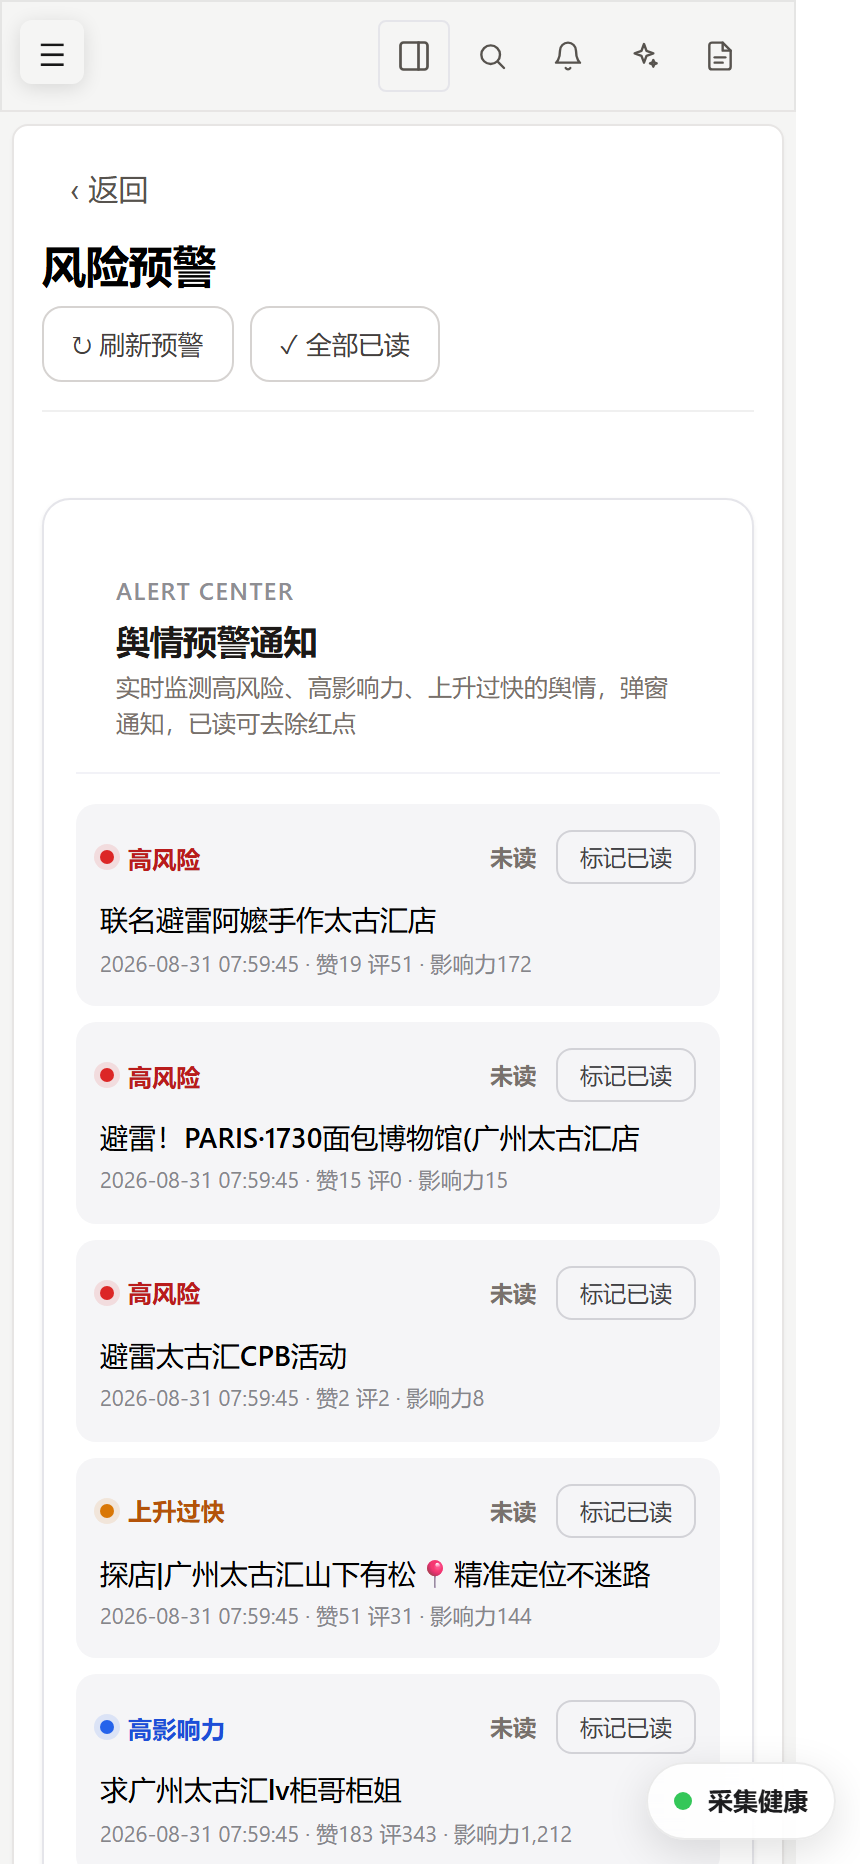
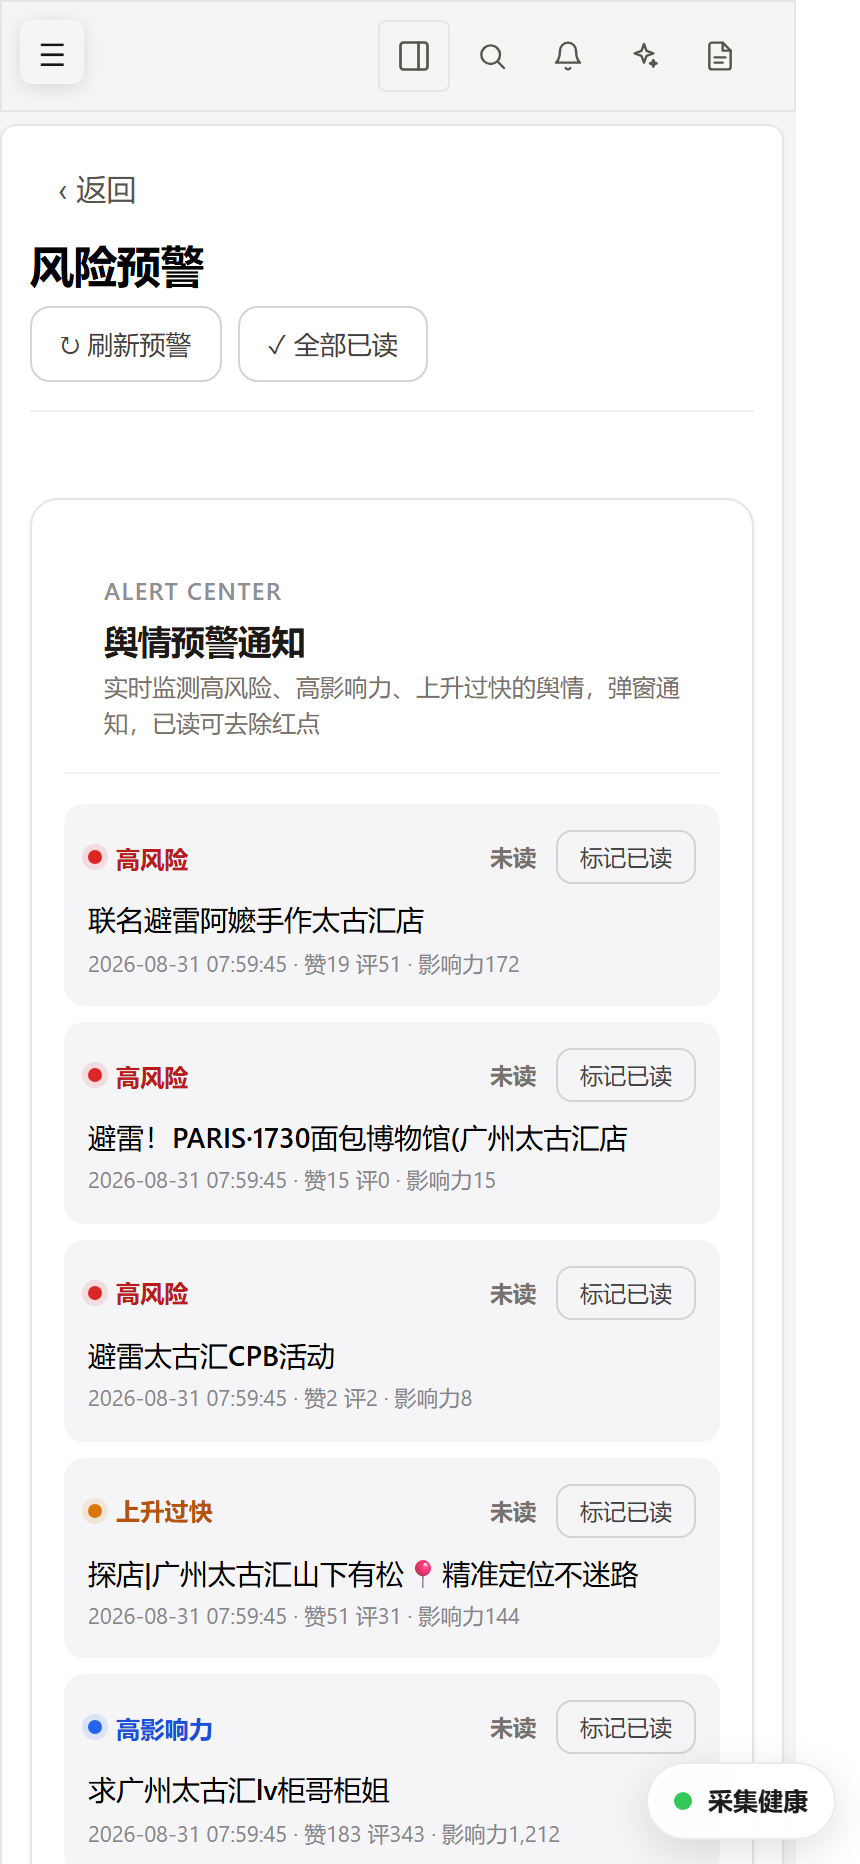
v5.9.9 自动保存版本（20:57 巡检）
author-tag=auto-watch; files=14

diff --git a/static/css/zbip-refine.css b/static/css/zbip-refine.css
@@ -157,3 +157,17 @@ body.zb-shell-on .zb-nav-title{ letter-spacing:.06em; }
 
 /* ---- R10 隐藏旧 ZACHARY OS AI 空分组标签（新 Shell 已重新分组，其下无项，不删源码） ---- */
 body.zb-shell-on .side-nav > .side-group-label{ display:none !important; }
+
+/* ---- R11 平板竖屏抽屉死区修复（761–1023）：原断点混乱导致侧栏隐藏但汉堡也隐藏，无法导航 ---- */
+@media(max-width:1023px){
+  body.zb-shell-on #menuToggle{ display:flex !important; }
+  body.zb-shell-on .sidebar{ transform:translateX(-100%) !important; transition:transform .26s var(--zbr-ease); }
+  body.zb-shell-on.zb-nav-open .sidebar{ transform:translateX(0) !important; }
+  body.zb-shell-on .content{ margin-left:0 !important; }
+  body.zb-shell-on .topbar{ left:0 !important; }
+  body.zb-shell-on #zbHome{ left:0 !important; }
+  body.zb-shell-on .right-panel{ display:none !important; }
+}
+@media(min-width:1024px){
+  body.zb-shell-on #menuToggle{ display:none !important; }
+}

diff --git a/tests/browser_runtime/test_failure_recovery.py b/tests/browser_runtime/test_failure_recovery.py
@@ -1,0 +1,138 @@
+# -*- coding: utf-8 -*-
+"""Failure Recovery Test（对齐 CTR-BROWSER-RUNTIME-P0-01）
+覆盖：transient 有限重试（禁止无限重试）、policy 拒绝→platform_risk 冷却语义、
+      BEEP 失败分类闭环、Safe Stop 语义。
+"""
+import sys, os
+sys.path.insert(0, os.path.dirname(os.path.dirname(os.path.dirname(os.path.abspath(__file__)))))
+import pytest
+
+from browser_runtime.contract import (
+    BrowserContract, BrowserState, FailureClass, BEEPExecutor, MAX_RETRY,
+)
+from browser_runtime.policy import (
+    BrowserPolicyEngine, PolicyDecision,
+)
+
+
+# ---------- FailureClass 分类 ----------
+class TestFailureClassification:
+    def test_transient_timeout(self):
+        assert BrowserContract.classify_failure("connection timed out after 30s") == FailureClass.TRANSIENT
+
+    def test_transient_network(self):
+        assert BrowserContract.classify_failure("network unreachable") == FailureClass.TRANSIENT
+
+    def test_session_expired(self):
+        assert BrowserContract.classify_failure("session expired, please login") == FailureClass.SESSION
+
+    def test_page_changed(self):
+        assert BrowserContract.classify_failure("selector not found: #btn") == FailureClass.PAGE_CHANGED
+
+    def test_policy_reject_is_platform_risk(self):
+        """Policy Gate 拒绝 → platform_risk（Cooldown/Stop，不允许重试）"""
+        assert BrowserContract.classify_failure(
+            "policy safe_stop: domain not in whitelist: https://evil-example.com"
+        ) == FailureClass.PLATFORM_RISK
+
+    def test_captcha_is_platform_risk(self):
+        assert BrowserContract.classify_failure("captcha required by platform") == FailureClass.PLATFORM_RISK
+
+    def test_forbidden_is_permission(self):
+        assert BrowserContract.classify_failure("403 forbidden") == FailureClass.PERMISSION
+
+
+# ---------- BEEP 有限重试（禁止无限重试） ----------
+class TestBEEPLimitedRetry:
+    def test_transient_retry_then_success(self):
+        """transient 失败后有限重试直至成功"""
+        calls = {"n": 0}
+
+        def action_fn():
+            calls["n"] += 1
+            if calls["n"] < 3:
+                raise RuntimeError("connection timed out")
+            return {"ok": True}
+
+        ex = BEEPExecutor(max_retry=3)
+        trace = ex.run("retry_test", action_fn)
+        assert trace.result == "SUCCESS"
+        assert calls["n"] == 3
+        assert trace.retry_count == 3
+
+    def test_no_infinite_retry(self):
+        """持续失败时不超过 max_retry，返回 VERIFY_FAILED"""
+        calls = {"n": 0}
+
+        def action_fn():
+            calls["n"] += 1
+            raise RuntimeError("connection timed out")
+
+        ex = BEEPExecutor(max_retry=MAX_RETRY)  # 3
+        trace = ex.run("retry_fail", action_fn)
+        assert trace.result == "VERIFY_FAILED"
+        assert calls["n"] == MAX_RETRY  # 恰好 3 次，不无限
+        assert trace.retry_count == MAX_RETRY
+
+    def test_verify_failure_marks_failed(self):
+        """verify 未通过 → VERIFY_FAILED"""
+        ex = BEEPExecutor(max_retry=1)
+        trace = ex.run("verify_test", lambda: {"done": True}, verify_fn=lambda r: r.get("done") is False)
+        assert trace.result == "VERIFY_FAILED"
+        assert trace.error is not None
+
+    def test_precondition_skip(self):
+        """precondition 未满足 → SKIP_PRECONDITION，不执行动作"""
+        acted = {"n": 0}
+        ex = BEEPExecutor(max_retry=3)
+        trace = ex.run("pre_test", lambda: acted.__setitem__("n", 1), precondition_fn=lambda: False)
+        assert trace.result == "SKIP_PRECONDITION"
+        assert acted["n"] == 0
+
+    def test_evidence_emitted(self):
+        """每次执行结束回调 Evidence（无密钥）"""
+        evidences = []
+        ex = BEEPExecutor(max_retry=1)
+        trace = ex.run("ev_test", lambda: {"ok": True}, on_evidence=lambda ev: evidences.append(ev))
+        assert len(evidences) == 1
+        ev = evidences[0]
+        assert ev["action"] == "ev_test"
+        assert "steps" in ev
+        # Evidence 不含密钥类字段
+        joined = str(ev).lower()
+        assert "cookie" not in joined and "token" not in joined and "password" not in joined
+
+
+# ---------- Policy 冷却语义（platform_risk → 不允许重试） ----------
+class TestPolicyCooldownSemantics:
+    def test_policy_reject_decision(self):
+        eng = BrowserPolicyEngine()
+        r = eng.check_navigation("https://evil-example.com")
+        assert r.decision == PolicyDecision.SAFE_STOP
+        assert "whitelist" in r.reason
+
+    def test_safe_stop_maps_to_platform_risk(self):
+        """Safe Stop 对应失败分类 = platform_risk（冷却/停止，而非重试）"""
+        eng = BrowserPolicyEngine()
+        r = eng.check_navigation("https://evil-example.com")
+        assert r.decision == PolicyDecision.SAFE_STOP
+        cls = BrowserContract.classify_failure(f"policy {r.decision.value}: {r.reason}")
+        assert cls == FailureClass.PLATFORM_RISK
+        # 处理策略：cooldown_or_stop（非 limited_retry）
+        from browser_runtime.contract import FAILURE_POLICY
+        assert FAILURE_POLICY[FailureClass.PLATFORM_RISK] == "cooldown_or_stop"
+
+    def test_dangerous_action_safe_stop(self):
+        eng = BrowserPolicyEngine()
+        r = eng.check_action("delete account permanently")
+        assert r.decision == PolicyDecision.SAFE_STOP
+
+    def test_confirm_action_needs_confirm(self):
+        eng = BrowserPolicyEngine()
+        r = eng.check_action("delete row")
+        assert r.decision == PolicyDecision.NEED_CONFIRM
+
+    def test_whitelist_domain_allowed(self):
+        eng = BrowserPolicyEngine()
+        r = eng.check_navigation("https://www.xiaohongshu.com/explore")
+        assert r.decision == PolicyDecision.ALLOW

diff --git a/browser_runtime_api.py b/browser_runtime_api.py
@@ -1,0 +1,67 @@
+# -*- coding: utf-8 -*-
+"""Zachary OS AI · Browser Runtime API（浏览器运行时只读接口）
+对齐 CTR-BROWSER-RUNTIME-P0-01：对外暴露 Browser Runtime 统一能力（只读）。
+端点：
+  GET  /api/browser-runtime/status      → Provider 注册表 + 默认 Provider + 状态机序列
+  POST /api/browser-runtime/probe       → Policy Gate + Router 探测指定 Provider（导航/健康）
+设计原则：
+  - 只读/探测，不改动现有 internal-browser API（保持向后兼容）
+  - 不返回任何 Cookie/Token/密钥
+  - 失败返回分类（transient/session/...），不无限重试
+"""
+from __future__ import annotations
+
+
+def register_browser_runtime_api(app):
+    """在 Flask app 上注册 Browser Runtime 只读 API。"""
+    from flask import Blueprint, jsonify, request
+    from browser_runtime import browser_router, BrowserContract, BrowserState, FailureClass
+
+    bp = Blueprint("browser_runtime_api", __name__)
+
+    @bp.route("/api/browser-runtime/status", methods=["GET"])
+    def browser_runtime_status():
+        """Provider 注册表 + 默认 Provider + 状态机（只读）。"""
+        try:
+            return jsonify({
+                "ok": True,
+                "providers": browser_router.providers(),
+                "default_provider": browser_router.default_provider(),
+                "state_sequence": BrowserContract.state_sequence(),
+                "failure_classes": [fc.value for fc in FailureClass],
+            })
+        except Exception as e:
+            return jsonify({"ok": False, "error": str(e)[:300]}), 500
+
+    @bp.route("/api/browser-runtime/probe", methods=["POST"])
+    def browser_runtime_probe():
+        """探测指定 Provider：先过 Policy Gate，再执行导航/健康检查。"""
+        try:
+            data = request.get_json(silent=True) or {}
+            provider = data.get("provider") or "cdp"
+            url = data.get("url")  # 可选，仅 navigate 类需要
+            action = data.get("action", "health")  # health | navigate
+
+            # 1. Policy Gate（导航前必须检查）
+            if action == "navigate":
+                if not url:
+                    return jsonify({"ok": False, "error": "navigate 需要 url"}), 400
+                browser_router.policy_gate("navigate", url=url)
+
+            # 2. 获取 Provider 实例
+            adapter = browser_router.get(provider)
+
+            # 3. 执行动作
+            if action == "navigate":
+                result = adapter.navigate(url)
+            else:
+                result = adapter.health()
+
+            return jsonify({"ok": True, "provider": provider, "action": action, "result": result})
+        except Exception as e:
+            # 失败分类（供调用方决策）
+            cls = BrowserContract.classify_failure(str(e)).value
+            return jsonify({"ok": False, "error": str(e)[:300], "failure_class": cls}), 400
+
+    app.register_blueprint(bp)
+    return bp

diff --git a/browser_runtime/contract.py b/browser_runtime/contract.py
@@ -232,7 +232,7 @@ class BrowserContract:
     def classify_failure(error: str) -> FailureClass:
         """根据错误信息粗分类失败（可被 Adapter 覆盖）。"""
         e = (error or "").lower()
-        if any(k in e for k in ("timeout", "connection reset", "network", "socket")):
+        if any(k in e for k in ("timeout", "timed out", "connection reset", "network", "socket")):
             return FailureClass.TRANSIENT
         if any(k in e for k in ("login", "session", "auth", "unauthorized", "logged out")):
             return FailureClass.SESSION
@@ -240,6 +240,9 @@ class BrowserContract:
             return FailureClass.PAGE_CHANGED
         if any(k in e for k in ("permission", "forbidden", "denied", "captcha", "risk", "blocked")):
             return FailureClass.PERMISSION if "permission" in e or "forbidden" in e else FailureClass.PLATFORM_RISK
+        # Policy Gate 拒绝（domain 白名单 / safe_stop）→ 平台风控级处理（Cooldown/Stop），不允许重试
+        if any(k in e for k in ("safe_stop", "whitelist", "policy block", "policy reject")):
+            return FailureClass.PLATFORM_RISK
         return FailureClass.UNKNOWN
 
     @staticmethod

diff --git a/app.py b/app.py
@@ -136,6 +136,13 @@ try:
 except Exception as _ev_e:
     print(f"[evidence_api] blueprint register failed: {_ev_e}")
 
+# Zachary OS AI：Browser Runtime API（只读，对齐 CTR-BROWSER-RUNTIME-P0-01）
+try:
+    import browser_runtime_api
+    browser_runtime_api.register_browser_runtime_api(app)
+except Exception as _br_e:
+    print(f"[browser_runtime_api] blueprint register failed: {_br_e}")
+
 # V3.0 影子板块：品牌营销知识库API
 @app.route('/api/brand-knowledge/stats')
 def brand_knowledge_stats():
